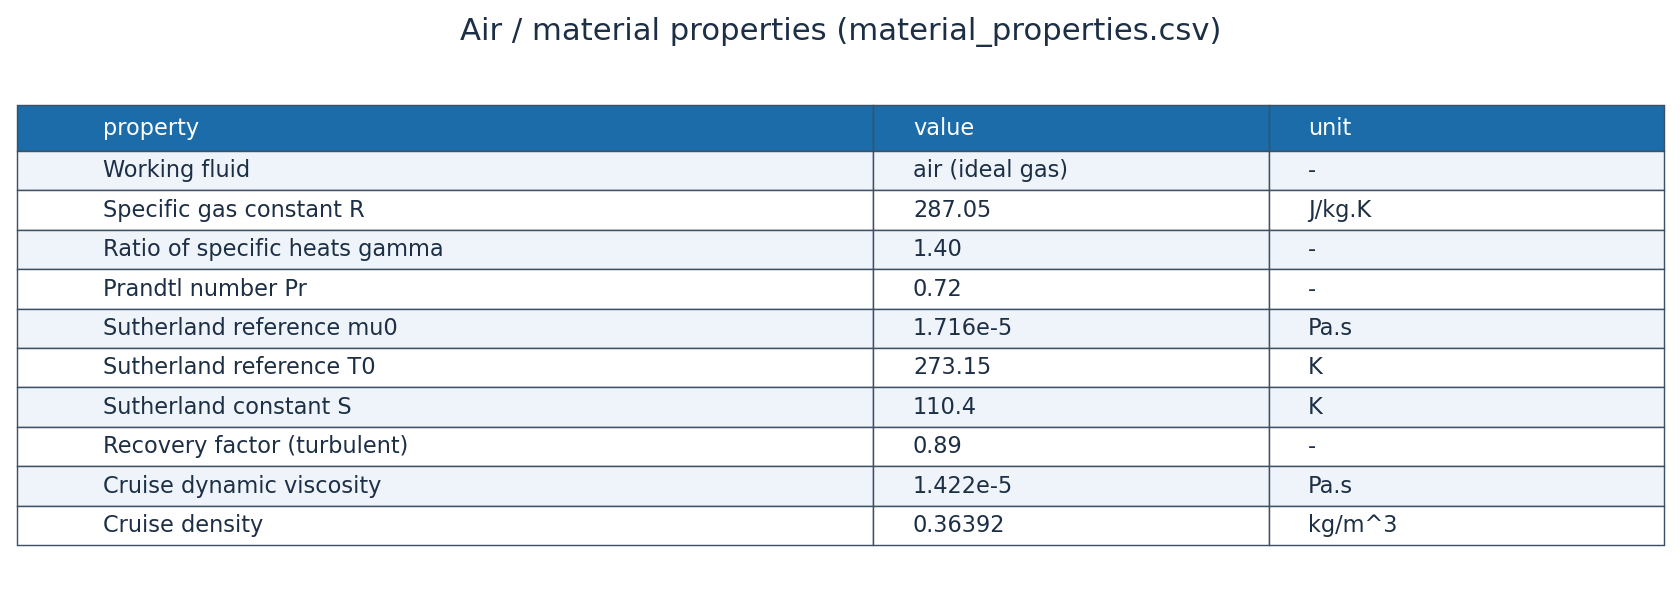
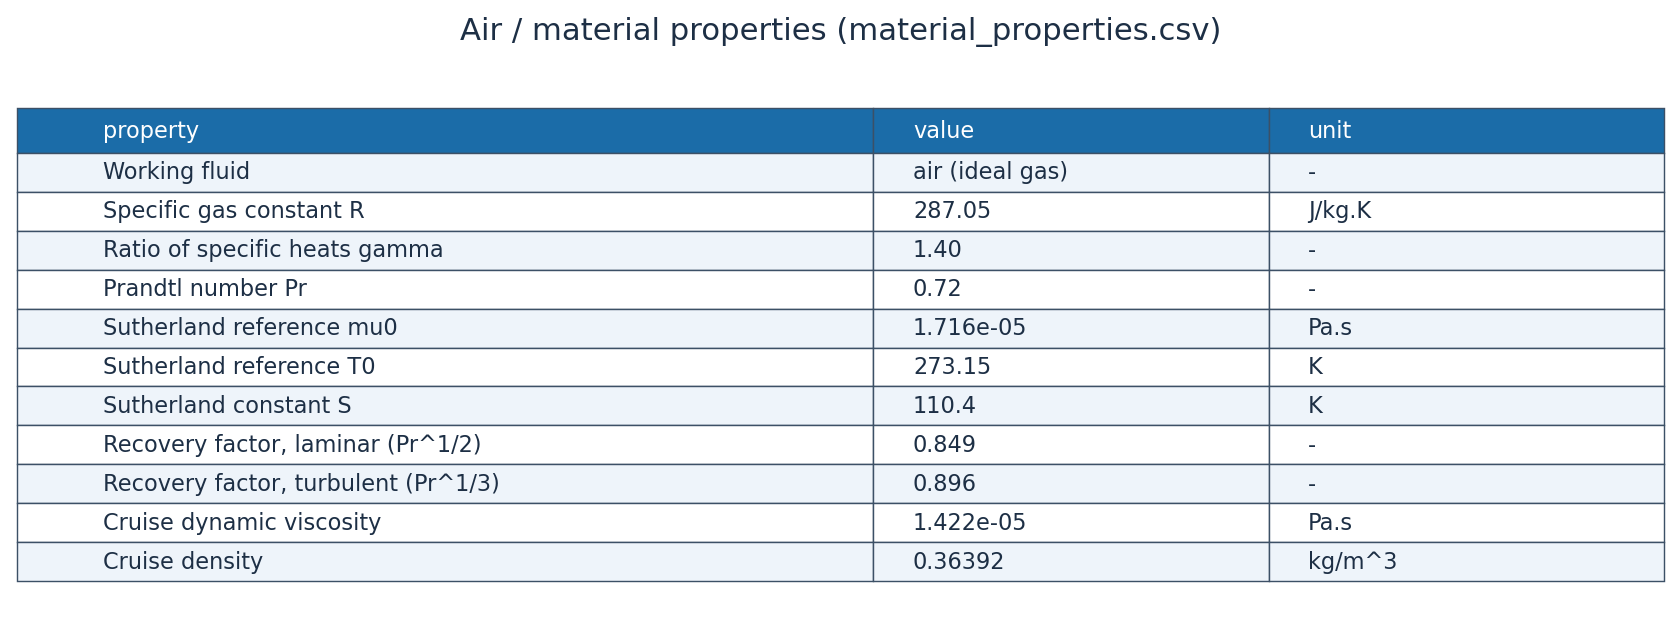
A constant nothing read, a docstring against its own equations, and a figure
Pass four.  The only CSV that moves is material_properties.csv, and it moves
because it was declaring a value the solver does not use.

A DECLARED CONSTANT THAT WAS NOT IN FORCE.  case_config carried
CRUISE["recovery_r"] = 0.89 and NOTHING read it: run_solution forms the
recovery factor as Pr^(1/2) laminar and Pr^(1/3) turbulent, blended by the
intermittency, which at Pr = 0.72 is 0.896.  03_model_setup/material_properties
.csv then published 0.89 as the value in force.  The dead constant is removed,
and the table reports both exponent forms, computed.  While there: every other
row of that table was typed beside the constant it names, and is read from it
now - as are the panel count, the separation criterion, the Squire-Young
station and C_len in solver_settings.csv, all of which were literals sitting
next to a CAL entry they would not follow.

A DOCSTRING CONTRADICTING ITS OWN EQUATIONS.  _edge_from_cp explains why the
march must run on the corrected pressure, and gave the example as "the
corrected C_p at the suction peak implies U_e/U_inf = 1.3475 against 1.3090, an
error of 2.9 per cent".  1.3475 is sqrt(1 - C_p) - the INCOMPRESSIBLE inversion
- while the isentropic chain listed three lines below it, which is what the
function returns and what the march is handed, gives 1.3590 and 3.8 per cent.

A NUMBER THAT DISAGREED BETWEEN THE README AND THE REPORT.  The chord Reynolds
number at which the wing transitions: 3.7e6 in one, 3.6e6 in the other, against
[…]

Changed region(s): [[0.0, 0.149, 0.9905, 0.9238], [0.2786, 0.0298, 0.7429, 0.0894]]

diff --git a/gen_mesh_setup.py b/gen_mesh_setup.py
@@ -273,23 +273,30 @@ def setup_tables():
     pd.DataFrame(rows).to_csv(f"{SET}/flow_conditions.csv",index=False)
 
     # material props
+    # Every value read from the constant the solver actually uses, not typed
+    # beside it.  The turbulent recovery factor was declared here as 0.89 and
+    # in case_config as a constant nothing read, while run_solution forms it as
+    # Pr^(1/3) = 0.896: the table stated a value that was not in force.
+    from utss_solver import _SUTH_MU0, _SUTH_T0, _SUTH_S
     mat=[("Working fluid","air (ideal gas)","-"),
-         ("Specific gas constant R","287.05","J/kg.K"),
-         ("Ratio of specific heats gamma","1.40","-"),
-         ("Prandtl number Pr","0.72","-"),
-         ("Sutherland reference mu0","1.716e-5","Pa.s"),
-         ("Sutherland reference T0","273.15","K"),
-         ("Sutherland constant S","110.4","K"),
-         ("Recovery factor (turbulent)","0.89","-"),
-         ("Cruise dynamic viscosity","1.422e-5","Pa.s"),
-         ("Cruise density","0.36392","kg/m^3")]
+         ("Specific gas constant R",f"{cr['R_air']:.2f}","J/kg.K"),
+         ("Ratio of specific heats gamma",f"{cr['gamma_air']:.2f}","-"),
+         ("Prandtl number Pr",f"{cr['Pr']:.2f}","-"),
+         ("Sutherland reference mu0",f"{_SUTH_MU0:.3e}","Pa.s"),
+         ("Sutherland reference T0",f"{_SUTH_T0:g}","K"),
+         ("Sutherland constant S",f"{_SUTH_S:g}","K"),
+         ("Recovery factor, laminar (Pr^1/2)",f"{cr['Pr']**0.5:.3f}","-"),
+         ("Recovery factor, turbulent (Pr^1/3)",
+          f"{cr['Pr']**(1.0/3.0):.3f}","-"),
+         ("Cruise dynamic viscosity",f"{cr['mu_inf']:.3e}","Pa.s"),
+         ("Cruise density",f"{cr['rho_inf']:.5f}","kg/m^3")]
     pd.DataFrame(mat,columns=["property","value","unit"]).to_csv(
         f"{SET}/material_properties.csv",index=False)
 
     # solver settings
     ss=[("Inviscid method","Constant-strength vortex-panel (Kuethe-Chow)"),
         ("Kutta condition","Enforced at sharp trailing edge"),
-        ("Surface panels","260 (cosine-clustered)"),
+        ("Surface panels","%d (cosine-clustered)" % (2*N_PANEL_HALF)),
         ("Compressibility (pressure)","Karman-Tsien correction on C_p"),
         ("Compressibility (boundary layer)",
          "closures evaluated at Eckert's reference temperature"),
@@ -306,14 +313,22 @@ def setup_tables():
         ("Intermittency closure","Narasimha universal (gamma)"),
         ("Transition length",
          "Dhawan & Narasimha at constant spot formation rate, stated in "
-         "Re_theta: Re_lambda = (9/0.664^1.5) Re_theta_t^1.5, which is their "
-         "published Re_lambda = 9 Re_x_t^0.75 wherever Re_theta = 0.664 "
+         "Re_theta: Re_lambda = (%g/0.664^1.5) Re_theta_t^1.5, which is their "
+         "published Re_lambda = %g Re_x_t^0.75 wherever Re_theta = 0.664 "
          "sqrt(Re_x) and is the form that stays exact in a pressure gradient "
-         "(cal['len_re_x'] = True recovers the published form)"),
+         "(cal['len_re_x'] = True recovers the published form)"
+         % (CAL["C_len"], CAL["C_len"])),
         ("Turbulent BL closure","Head entrainment + Ludwieg-Tillmann Cf"),
-        ("Laminar separation criterion","Thwaites lambda <= -0.09"),
+        # Read from CAL, not typed beside it.  The separation criterion in force
+        # is the Thwaites one only while H_sep is zero; if it is ever given a
+        # positive value the march switches to a shape-factor test and this row
+        # would have gone on describing the other one.
+        ("Laminar separation criterion",
+         ("shape factor H >= %g" % CAL["H_sep"]) if CAL["H_sep"] > 0.0
+         else ("Thwaites lambda <= %g" % CAL["lam_sep"])),
         ("Turbulent separation flag","H > 2.6"),
-        ("Drag integration","Squire-Young far-wake, evaluated at 0.98c"),
+        ("Drag integration",
+         "Squire-Young far-wake, evaluated at %gc" % CAL["sy_x_ref"]),
         ("Marching scheme","explicit trapezoidal, arc-length stepping with "
          "sub-stepping on the kinetic-energy equation"),
         ("Convergence tol (panel)","1e-10 (direct solve)"),

diff --git a/build_docx.py b/build_docx.py
@@ -711,12 +711,19 @@ table_from_csv("04_solution/integrated_forces.csv", key="forces", cap="Integrate
 table_from_csv("04_solution/nlf_vs_turbulent.csv", cap="NLF vs fully-turbulent drag.")
 image("05_postprocessing/csv_plots/nlf_vs_turbulent.png", width=5.4,
       cap="Drag benefit of predicted laminar flow vs fully-turbulent.")
+# The wing's transition Reynolds number was typed here as 3.6e6 and in the
+# README as 3.7e6, for the same quantity.  It is 3.554e6.
+_ts_cr = pd.read_csv("04_solution/transition_summary.csv")
+_ts_cr = _ts_cr[(_ts_cr.case == "CRUISE") & (_ts_cr.surface == "upper")].iloc[0]
 h2("9.2a  The transition-length closure and what the result owes to it")
 para("The extent of the transitional region is Dhawan and Narasimha's published correlation, "
  "Re_λ = 9 Re_x,t^0.75, with λ the distance over which the intermittency rises from 0.25 to "
  "0.75. This work previously reported it as validated on the flat plates of Section 11.1, "
- "which span Re_x,t = 6×10⁴ to 1.4×10⁶, and EXTRAPOLATED on the wing, which transitions at "
- "3.6×10⁶. That extrapolation was of the variable, not of the physics.")
+ "which span Re_x,t = 6×10⁴ to 1.4×10⁶ — the four ERCOFTAC plates, which are the ones that "
+ "carry C_f through transition and so constrain a length rather than an onset; Schubauer & "
+ "Skramstad reaches 2.8×10⁶ but gives only a station — and EXTRAPOLATED on the wing, which "
+ "transitions at %.1f×10⁶. That extrapolation was of the variable, not of the physics."
+ % (_ts_cr.Re_x_tr/1e6))
 para("Their correlation is Narasimha's spot model with a constant dimensionless spot formation "
  "rate. Matching γ = 1 − exp(−0.412 ξ²) against γ = 1 − exp(−n σ (x−x_t)²/U), with "
  "N̂ = n σ θ_t³/ν, gives Re_λ = √(0.412/N̂) Re_θ,t^1.5; and on a Blasius plate "
@@ -771,6 +778,10 @@ table_from_csv("04_solution/surface_cruise_lower.csv", max_rows=30, sample=True,
 h2("9.4  Surface distributions — climb (off-design, elevated Tu)")
 for f,c in [("climb_Cp","Pressure coefficient C_p — climb."),
             ("climb_Cf","Skin-friction C_f and laminar run — climb."),
+            # generated for both conditions and shown for one: the cruise block
+            # above carries cruise_theta_H and this one dropped its counterpart,
+            # so the two sections were not the same section twice
+            ("climb_theta_H","Momentum thickness θ and shape factor H — climb."),
             ("climb_Retheta","The governing transition criterion — climb: "
              "here Re_θ crosses the falling Abu-Ghannam & Shaw bypass threshold "
              "while N is still far below N_crit."),

diff --git a/solver/utss_solver.py b/solver/utss_solver.py
@@ -716,11 +716,16 @@ def _edge_from_cp(Cp, mach, gamma=1.4):
     corrects the pressure with Karman-Tsien.  Taking the edge velocity as that
     uncorrected V, as this did, leaves the boundary layer running on a
     different flow from the one the loads are computed from: at M = 0.42 the
-    corrected C_p at the suction peak implies U_e/U_inf = 1.3475 while the
-    march was handed 1.3090, an error of 2.9 per cent in the edge velocity and
-    in its GRADIENT, which is what drives lambda and hence the whole transition
-    kernel.  The pressure was compressible and the boundary layer it fed was
-    not.
+    corrected C_p at the suction peak implies U_e/U_inf = 1.3590 by the
+    relations below, while the march was handed 1.3090 - an error of 3.8 per
+    cent in the edge velocity and in its GRADIENT, which is what drives lambda
+    and hence the whole transition kernel.  The pressure was compressible and
+    the boundary layer it fed was not.
+
+    (This said 1.3475 and 2.9 per cent.  1.3475 is sqrt(1 - C_p) at that
+    station: the INCOMPRESSIBLE inversion of the corrected pressure, which is
+    not what the isentropic chain below returns and not what the march is
+    given.  The example contradicted the equations three lines under it.)
 
     Both follow from the corrected pressure by the isentropic relations, with
     no new constant.  From C_p,

diff --git a/solver/case_config.py b/solver/case_config.py
@@ -47,7 +47,12 @@ CRUISE = dict(
     gamma_air   = 1.4,
     R_air       = 287.05,
     Pr          = 0.72,
-    recovery_r  = 0.89,       # turbulent recovery factor ~ Pr^(1/3)
+    # No recovery_r here.  It sat here as 0.89 and NOTHING read it:
+    # run_solution forms the recovery factor as Pr^(1/2) laminar and Pr^(1/3)
+    # turbulent, blended by the intermittency, which at Pr = 0.72 gives 0.896
+    # turbulent - so the constant declared here and quoted in
+    # 03_model_setup/material_properties.csv was not the one in force.  The
+    # exponent form adds no constant and is what the table reports now.
 )
 CRUISE["U_inf"] = CRUISE["mach"]*CRUISE["a_sound"]
 CRUISE["nu_inf"] = CRUISE["mu_inf"]/CRUISE["rho_inf"]

diff --git a/README.md b/README.md
@@ -93,12 +93,22 @@ state to the trailing edge and applying the wake relation returns 18 counts
 against 47, because θ has by then grown to a per cent of chord in response to a
 deceleration the viscous flow does not have.
 
-The transition-length correlation is validated on the flat plates below, which
-span Re_x,t = 6×10⁴ to 1.4×10⁶, and extrapolated on the wing, which transitions
-at 3.7×10⁶.  The extrapolation is not damped — that would add an undeclared
-constant — but what it costs is measured: sweeping the constant over a factor
-of four moves the section drag by a tenth of a count
-(`04_solution/transition_length_sensitivity.csv`).
+The transition-length correlation is validated on the four ERCOFTAC plates
+below — the ones that carry C_f measurements through transition, and therefore
+the only ones that constrain a LENGTH rather than an onset — which span
+Re_x,t = 6×10⁴ to 1.4×10⁶, and extrapolated on the wing, which transitions
+at 3.6×10⁶ (`04_solution/transition_summary.csv`, Re_x_tr = 3.554×10⁶ on the
+upper surface; this said 3.7).  The extrapolation is not damped — that would add an undeclared
+constant — but what it costs is measured: over the range in which the
+transitional region still closes on the section, C_len from a quarter of the
+published value up to it, the section drag moves **0.04 counts**. Above the
+published value it does not close — the layer is still transitional at the
+trailing edge — and the drag then falls steeply, which is the closure running
+out of section rather than a sensitivity. Both regimes, and the column that
+says which is which, are in
+`04_solution/transition_length_sensitivity.csv`. (This said "a factor of four
+moves the drag by a tenth of a count" without saying in which direction; a
+factor of four upwards moves it by eight.)
 
 Three elements are not correlations:
 
